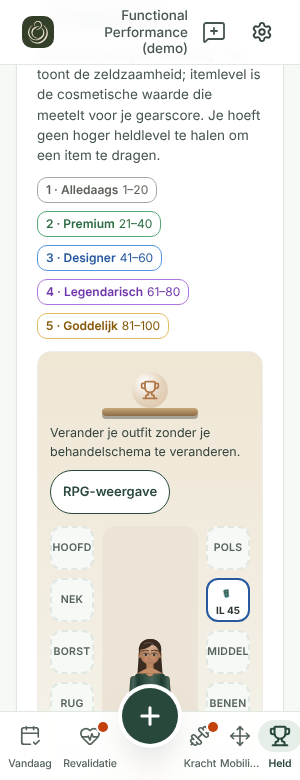
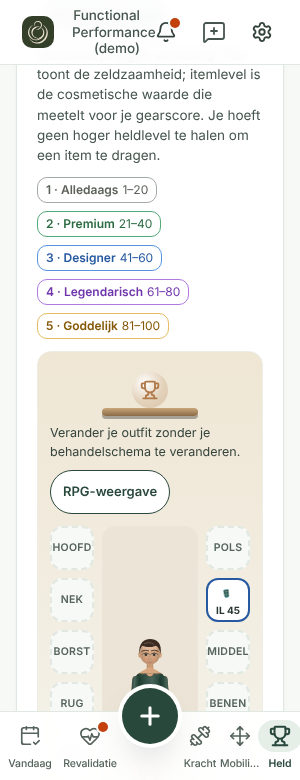
Quiz: level-2 questions on compensation patterns; welcome tour mentions the messages bell
Claude-Session: https://claude.ai/code/session_01LX8STJNNDwUxbGDdeQr5p6

diff --git a/shared/muscleAtlas.ts b/shared/muscleAtlas.ts
@@ -1,3 +1,5 @@
+import { COMPENSATIONS } from './complaints';
+
 /**
  * Spierenatlas: the main muscles, what they do, which nerve drives them, and words to find the
  * exercises that train or stretch them (matched against an exercise's target muscles and name).
@@ -383,6 +385,22 @@ function buildQuestions(): QuizQuestion[] {
       options: shuffle([{ id: b, label: [right.nl, right.en] as Fn }, ...wrong.map((x) => ({ id: x.key, label: [x.nl, x.en] as Fn }))], a + 'anto'),
       answer: b,
       explain: [`De ${right.nl.toLowerCase()} doet de tegengestelde beweging: ${right.functions[0][0].toLowerCase()} tegenover ${m.functions[0][0].toLowerCase()}.`, `The ${right.en.toLowerCase()} does the opposite movement: ${right.functions[0][1].toLowerCase()} versus ${m.functions[0][1].toLowerCase()}.`],
+    });
+  }
+  // 5. Compensations (level 2): when this muscle is weak, which one tends to take over?
+  for (const c of COMPENSATIONS) {
+    const weak = MUSCLES.find((m) => m.key === c.weak[0]);
+    const over = MUSCLES.find((m) => m.key === c.over[0]);
+    if (!weak || !over) continue;
+    // Never offer a muscle that also takes over (or is weak) in another pattern of this muscle.
+    const related = new Set(COMPENSATIONS.filter((x) => x.weak.includes(weak.key)).flatMap((x) => [...x.over, ...x.weak]));
+    const wrong = pickOthers(MUSCLES.filter((m) => !related.has(m.key) && !m.level && m.region !== over.region), 3, c.key + 'comp');
+    out.push({
+      id: `comp:${c.key}`, level: 2, muscle: weak.key, nerve: null,
+      q: [`Als je ${weak.nl.toLowerCase()} zwak ${weak.plural ? 'zijn' : 'is'}, welke spier neemt dan vaak het werk over?`, `If your ${weak.en.toLowerCase()} ${weak.plural ? 'are' : 'is'} weak, which muscle often takes over?`],
+      options: shuffle([{ id: over.key, label: [over.nl, over.en] as Fn }, ...wrong.map((m) => ({ id: m.key, label: [m.nl, m.en] as Fn }))], c.key + 'compo'),
+      answer: over.key,
+      explain: [`${c.name[0]}. ${c.see[0]}`, `${c.name[1]}. ${c.see[1]}`],
     });
   }
   return [...out, ...LEVEL2_SPECIALS];

diff --git a/shared/complaints.test.ts b/shared/complaints.test.ts
@@ -1,7 +1,7 @@
 import { describe, it, expect } from 'vitest';
 import { BODY_AREAS } from './hero';
 import { CHAINS, COMPENSATIONS, COMPLAINTS, REGIONS, regionForArea, complaintsForExercise, templatesFor, complaintMuscles, complaintsIn, muscleInChains, proposeExercises, searchComplaints, whyFor, type ProposalExercise } from './complaints';
-import { MUSCLES, NERVES } from './muscleAtlas';
+import { MUSCLES, NERVES, quizQuestions } from './muscleAtlas';
 import { MOBILITY_TESTS } from './mobilityTests';
 
 const muscle = (k: string) => MUSCLES.some((m) => m.key === k);
@@ -134,5 +134,21 @@ describe('existing practice programmes', () => {
     expect(templatesFor(COMPLAINTS.find((c) => c.key === 'achilles')!, list).map((x) => x.title)).toEqual(['Achillespees — belastingsopbouw']);
     expect(templatesFor(COMPLAINTS.find((c) => c.key === 'patellapees')!, list).map((x) => x.title)).toEqual(['Patellapees — belastingsopbouw']);
     expect(templatesFor(COMPLAINTS.find((c) => c.key === 'pfps')!, list)).toEqual([]);
+  });
+});
+
+
+describe('compensation quiz', () => {
+  it('one level 2 question per pattern; the answer is what takes over, no other option is', () => {
+    const qs = quizQuestions().filter((q) => q.id.startsWith('comp:'));
+    expect(qs.length).toBe(COMPENSATIONS.length);
+    for (const q of qs) {
+      const c = COMPENSATIONS.find((x) => `comp:${x.key}` === q.id)!;
+      expect(q.level).toBe(2);
+      expect(q.answer).toBe(c.over[0]);
+      const related = new Set(COMPENSATIONS.filter((x) => x.weak.includes(c.weak[0])).flatMap((x) => [...x.over, ...x.weak]));
+      for (const o of q.options) if (o.id !== q.answer) expect(related.has(o.id), q.id + ' ' + o.id).toBe(false);
+    }
+    expect(qs.find((q) => q.id === 'comp:tfl_gmed')!.q[0]).toBe('Als je middelste bilspier zwak is, welke spier neemt dan vaak het werk over?');
   });
 });

diff --git a/web/src/components/patient/WelcomeTour.tsx b/web/src/components/patient/WelcomeTour.tsx
@@ -18,7 +18,7 @@ const STEPS = [
   { icon: CalendarCheck2, nl: ['Vandaag', 'Hier staat je training van vandaag. Eén tik op Start en de app neemt je oefening voor oefening mee, met video en timer. Ook vind je hier elke dag een quizvraag.'], en: ['Today', 'Your workout for today is here. One tap on Start and the app takes you through it exercise by exercise, with video and timer. You also get a quiz question here every day.'] },
   { icon: Plus, nl: ['De plusknop', 'Midden onderin. Snel iets bijhouden: je dagcheck en pijn, water, eiwit of een set in de Krachtlog.'], en: ['The plus button', 'Bottom centre. Quickly log something: your daily check-in and pain, water, protein or a set in the strength log.'] },
   { icon: Trophy, nl: ['Je held', 'Je held groeit mee met wat je doet: skills, munten voor de winkel, de baas van de week en de spierenatlas met quiz.'], en: ['Your hero', 'Your hero grows with what you do: skills, coins for the shop, the boss of the week and the muscle atlas with quiz.'] },
-  { icon: Settings, nl: ['Instellingen', 'Rechtsboven: wat je deelt met je fysiotherapeut, herinneringen en de tekstgrootte. Iets geks of een idee? De knop ernaast is voor feedback.'], en: ['Settings', 'Top right: what you share with your physiotherapist, reminders and text size. Something odd or an idea? The button next to it is for feedback.'] },
+  { icon: Settings, nl: ['Instellingen', 'Rechtsboven: het belletje met berichten van je fysiotherapeut, de feedbackknop (iets geks of een idee?) en het tandwiel voor wat je deelt, herinneringen en de tekstgrootte.'], en: ['Settings', 'Top right: the bell with messages from your physiotherapist, the feedback button (something odd or an idea?) and the cog for what you share, reminders and text size.'] },
 ] as const;
 
 /** A four-step welcome on first use of the patient app; skippable, shown once per device. */

diff --git a/docs/MASTERPLAN.md b/docs/MASTERPLAN.md
@@ -110,6 +110,8 @@ Status: `[x]` klaar en live · `[ ]` nog te doen.
 42. [x] **Berichten voor de patiënt.** Belletje in de kop (met stip bij iets nieuws) naar een
     overzicht van alles wat de praktijk stuurde: reacties, spierkaarten, meetverzoeken, nieuwe
     programma's. Ook: "zojuist" in plaats van "binnen een minuut" bij net verstuurde berichten.
+43. [x] **Quiz over compensaties** (level 2): per patroon "Als je middelste bilspier zwak is,
+    welke spier neemt dan vaak het werk over?", met uitleg. Rondleiding noemt het belletje.
 
 ## Vraagt jouw beslissing (Claude wacht hierop)
 - Render Starter (betaald) en een vaste schijf voor video's (`STORAGE_DIR`).
